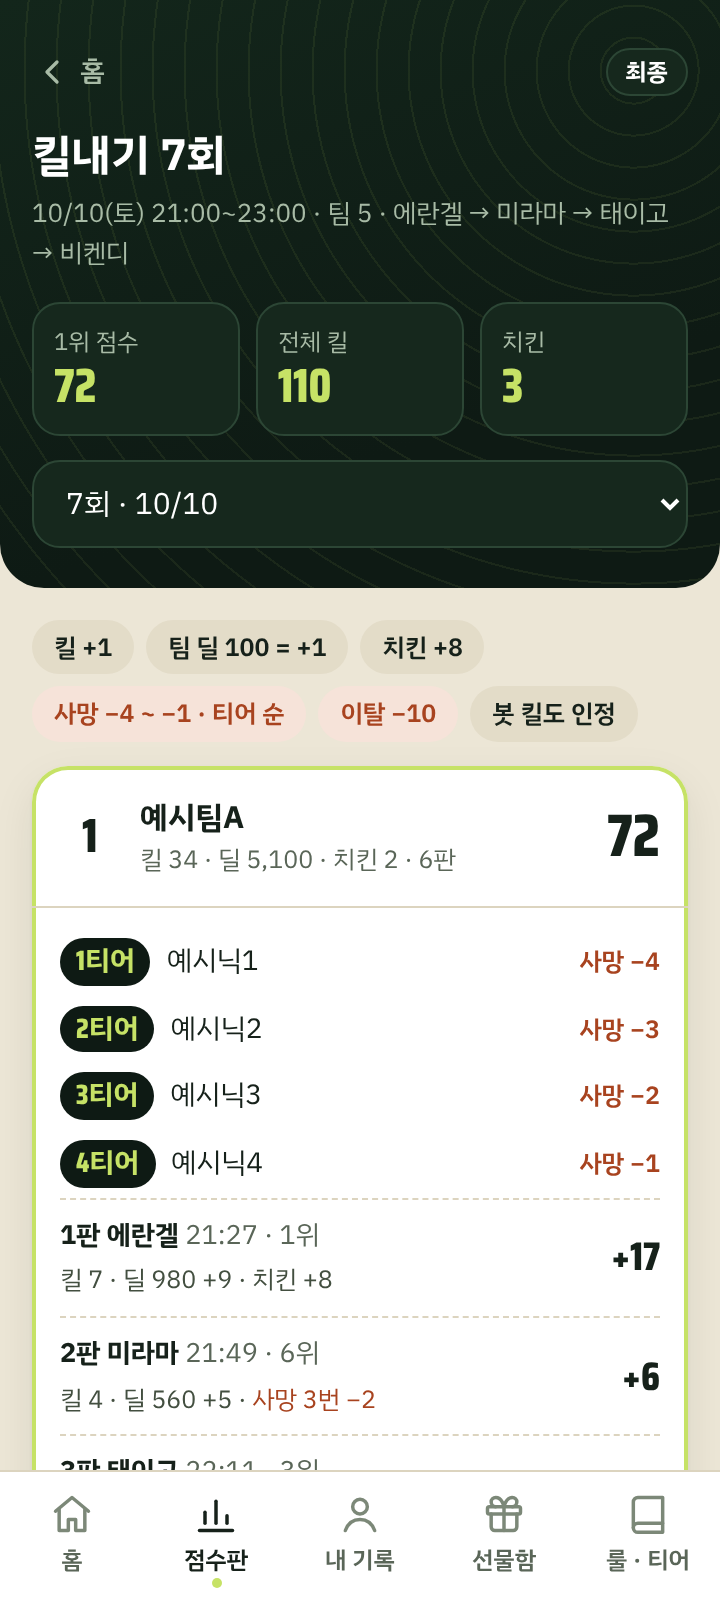
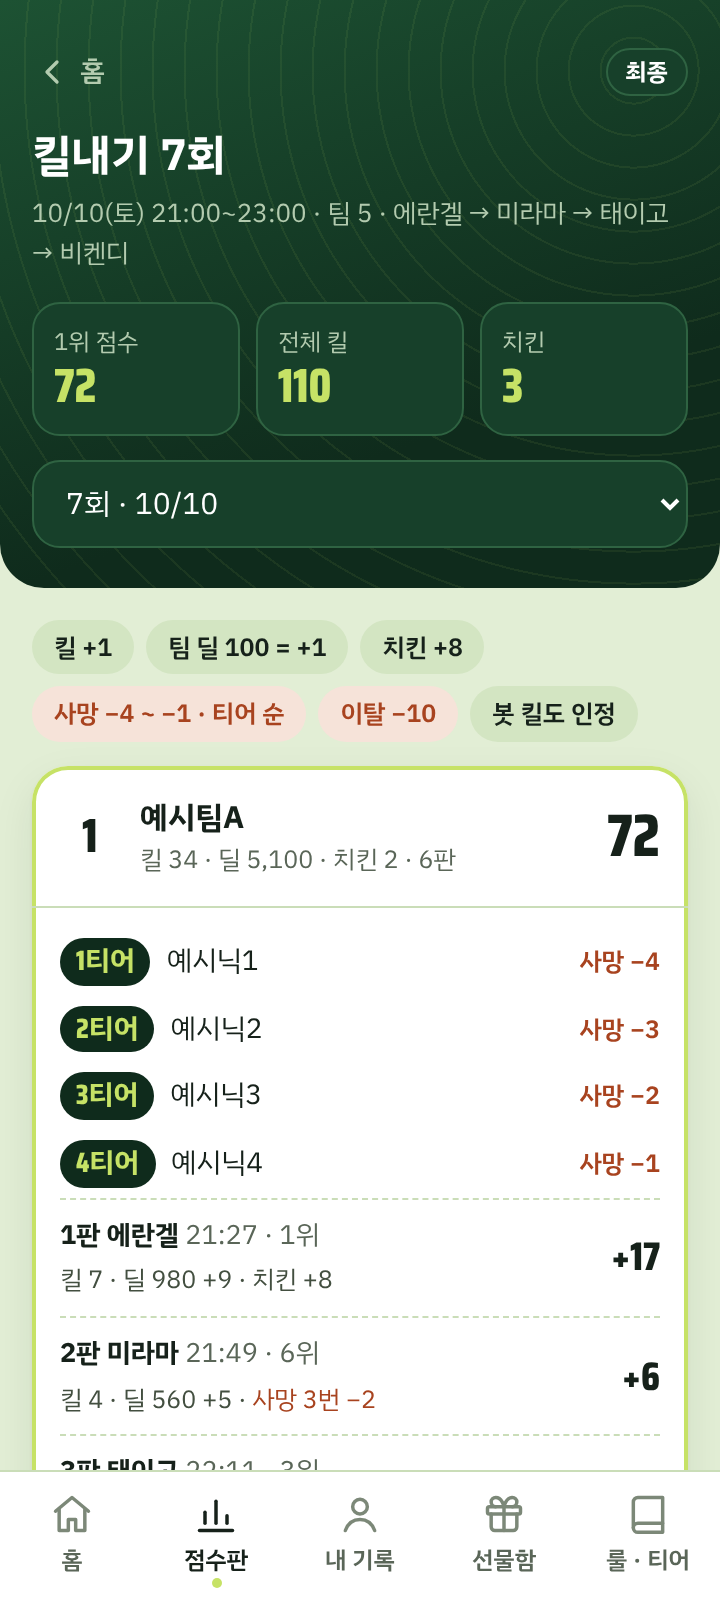
킬내기 앱 — 정글 스킨 더 푸릇하게(10/11 오너 「좀 더 푸릇푸릇한 느낌」): 연녹 바탕 · 한 톤 밝은 숲 띠 · 칩 · 선 · 띠 칸 · 라벨
Claude-Session: https://claude.ai/code/session_01VZpurRErTSq9Jq5fnBM9T2

Changed region(s): [[0.0, 0.0, 1.0, 0.2812]]

diff --git a/killnaegi-app.html b/killnaegi-app.html
@@ -7,7 +7,7 @@
 <meta name="description" content="GmI 킬내기 신청 · 점수판 · 내 기록 · 선물함 · 룰 · 티어를 한곳에서 봐요">
 <meta property="og:title" content="GmI 킬내기">
 <meta property="og:description" content="신청 · 점수판 · 내 기록 · 선물함 · 룰 · 티어를 한곳에서 봐요">
-<meta name="theme-color" content="#0E1A14">
+<meta name="theme-color" content="#0F2B1C">
 <meta name="mobile-web-app-capable" content="yes">
 <meta name="apple-mobile-web-app-capable" content="yes">
 <meta name="apple-mobile-web-app-title" content="킬내기">
@@ -42,10 +42,10 @@
  * 짙은 숲 띠 + 등고선 무늬 · 라임 강조 · 모래 바탕 · 흰 카드 · 탭 라임 점. 게임사 로고 · 아이콘 · 지도 이미지는 쓰지 않는다(색과 분위기만).
  * 수강생 앱(검정 · 골드) · 루트 G드컵 다크(#0a0a0c) · app/ 카지노(NIGHT OPERATION)와 섞지 않는다. 토큰은 이 :root 하나 */
 :root{
-  --bg:#ECE6D6; --card:#FFFFFF;
-  --band:#0E1A14; --band-cell:#16281D; --band-line:#2C4635; --band-label:#A8BBA6; --acc:#C6E266; --acc-soft:#E9F2D3; --pick:#F3F8E4;
-  --band-bg:repeating-radial-gradient(circle at 88% 12%,rgba(198,226,102,.07) 0 1px,transparent 1px 16px),linear-gradient(160deg,#13261B 0%,#0E1A14 70%);
-  --ink:#16211A; --body:#434F40; --mute:#5A6658; --line:#DCD4BF; --chip:#E3DCC8; --link:#2D6A3E;
+  --bg:#E2EED5; --card:#FFFFFF;
+  --band:#0F2B1C; --band-cell:#17402A; --band-line:#2F6342; --band-label:#B3CBAF; --acc:#C6E266; --acc-soft:#E9F2D3; --pick:#F3F8E4;
+  --band-bg:repeating-radial-gradient(circle at 88% 12%,rgba(198,226,102,.07) 0 1px,transparent 1px 16px),linear-gradient(160deg,#1D5233 0%,#0F2B1C 70%);
+  --ink:#16211A; --body:#434F40; --mute:#5A6658; --line:#CADDB8; --chip:#D3E5C2; --link:#2D6A3E;
   --ok:#1F7A4D; --bad:#A8431F; --bad-soft:#F6E3D9; --tab-off:#7C8878;
   --shadow:0 1px 2px rgba(22,33,26,.05),0 8px 22px rgba(22,33,26,.08);
   --stencil:'Big Shoulders Stencil Display','Saira Condensed','IBM Plex Sans KR',sans-serif;
@@ -106,8 +106,8 @@ a{color:var(--link);}
 .b-select{width:100%;min-height:44px;margin-top:12px;border:1px solid var(--band-line);border-radius:var(--r-btn);background:var(--band-cell);color:#fff;padding:0 12px;font-size:15px;}
 
 /* 띠 안 스켈레톤 · 실패 */
-.sk{display:block;border-radius:8px;background:linear-gradient(90deg,#E3DCC8 0%,#F2EDE1 50%,#E3DCC8 100%);background-size:200% 100%;animation:sk 1.4s ease-in-out infinite;}
-.band .sk{background:linear-gradient(90deg,#16281D 0%,#203A2A 50%,#16281D 100%);background-size:200% 100%;}
+.sk{display:block;border-radius:8px;background:linear-gradient(90deg,#D3E5C2 0%,#EDF5E3 50%,#D3E5C2 100%);background-size:200% 100%;animation:sk 1.4s ease-in-out infinite;}
+.band .sk{background:linear-gradient(90deg,#17402A 0%,#1F5236 50%,#17402A 100%);background-size:200% 100%;}
 .sk-t{height:52px;width:48%;margin:14px 0 6px;}
 .sk-c{height:60px;width:100%;margin-top:12px;border-radius:14px;}
 .sk-b{height:52px;width:100%;margin-top:14px;border-radius:var(--r-btn);}
@@ -224,7 +224,7 @@ main{padding-top:14px;}
 .res-row div{display:flex;justify-content:space-between;}
 .res-bar{height:10px;border-radius:999px;background:var(--chip);overflow:hidden;margin-top:4px;}
 .res-bar i{display:block;height:100%;background:var(--acc);}
-.dock{position:fixed;left:0;right:0;bottom:calc(var(--bar) + env(safe-area-inset-bottom));z-index:9;background:linear-gradient(rgba(236,230,214,0),var(--bg) 30%);padding:18px 0 10px;}
+.dock{position:fixed;left:0;right:0;bottom:calc(var(--bar) + env(safe-area-inset-bottom));z-index:9;background:linear-gradient(rgba(226,238,213,0),var(--bg) 30%);padding:18px 0 10px;}
 .dock .btn{width:100%;min-height:52px;font-size:16px;}
 .btn.ok{background:var(--ok);color:#fff;}
 .vote-pad{height:90px;}
